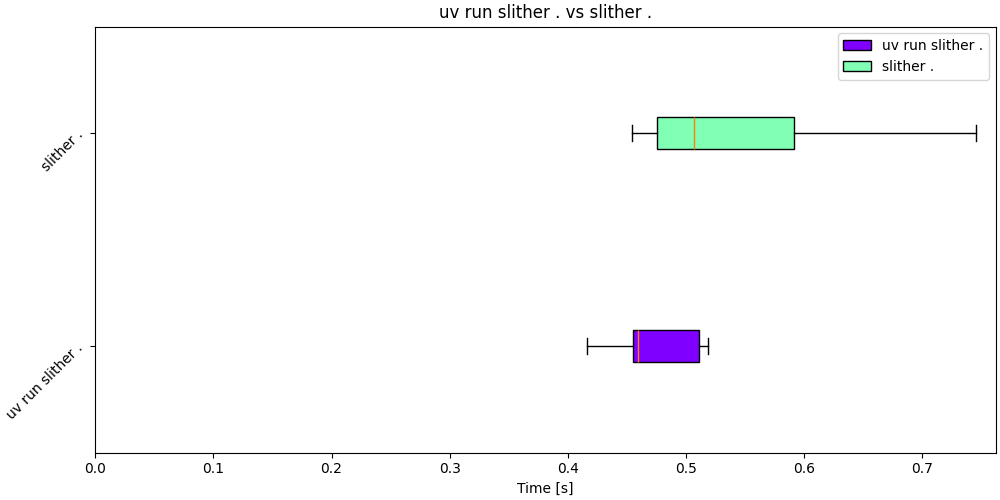
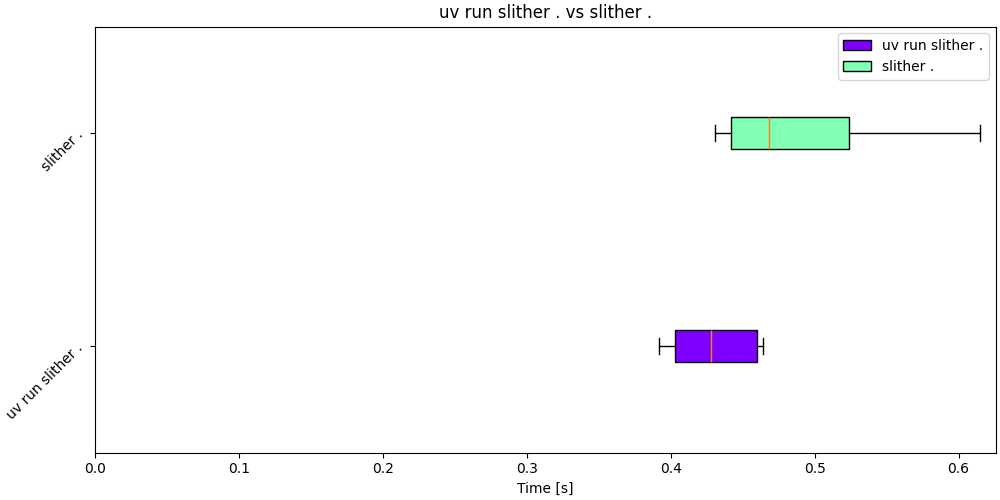
🫦

diff --git a/WORKZ/HYPTEST/t1/f2/reports/run.md b/WORKZ/HYPTEST/t1/f2/reports/run.md
@@ -1,4 +1,4 @@
 | Command | Mean [ms] | Min [ms] | Max [ms] | Relative |
 |:---|---:|---:|---:|---:|
-| `uv run slither .` | 517.3 ± 134.4 | 416.1 | 856.2 | 1.00 |
-| `slither .` | 546.6 ± 97.5 | 454.2 | 745.8 | 1.06 ± 0.33 |
+| `uv run slither .` | 457.1 ± 81.6 | 391.6 | 633.6 | 1.00 |
+| `slither .` | 503.4 ± 86.6 | 430.7 | 689.3 | 1.10 ± 0.27 |
